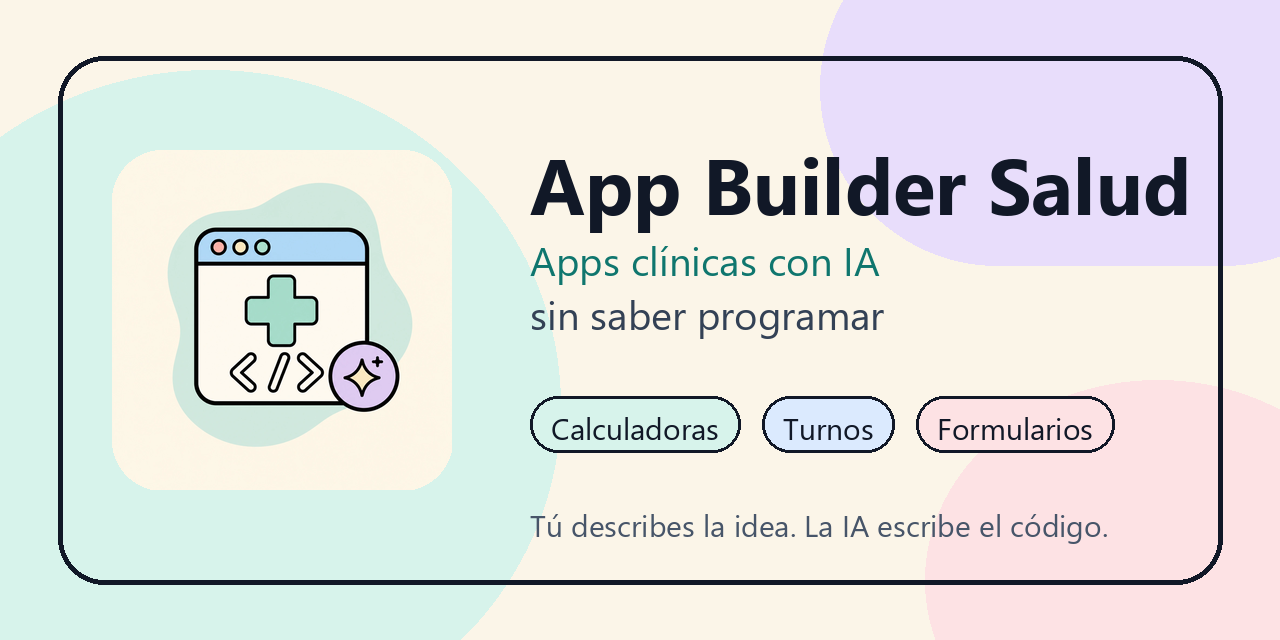
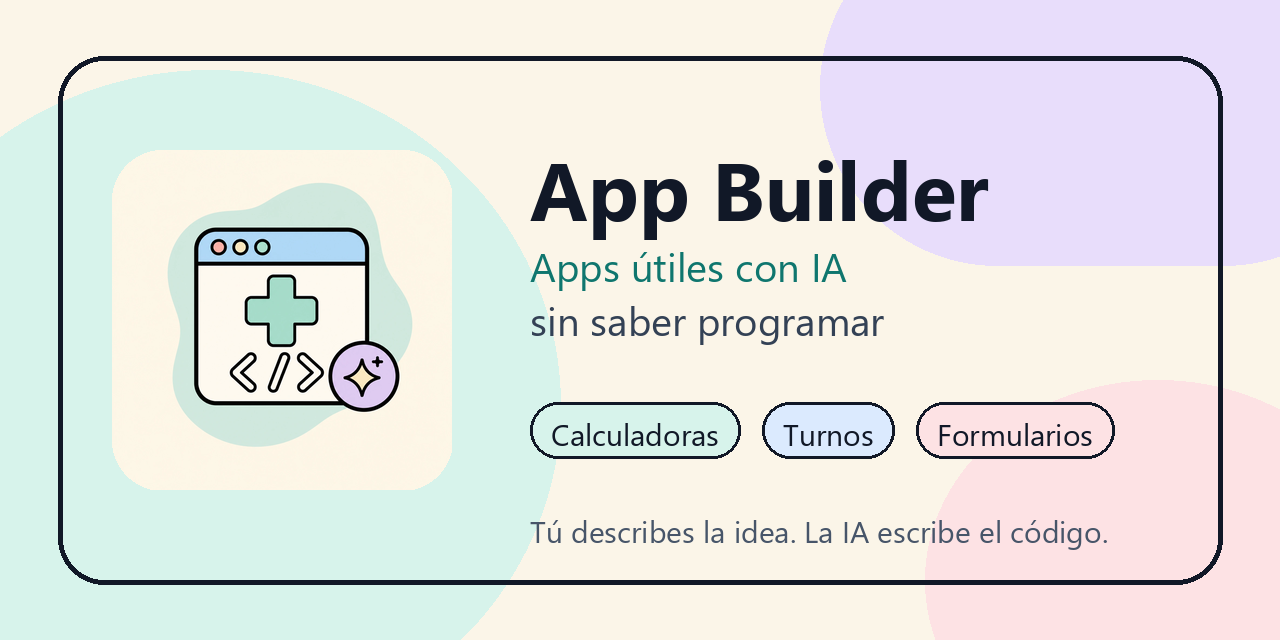
docs: generalize app builder branding

diff --git a/README.md b/README.md
@@ -1,5 +1,5 @@
 <p align="center">
-  <img src="assets/logo.webp" alt="App Builder Salud" width="360">
+  <img src="assets/logo.webp" alt="App Builder" width="360">
 </p>
 
 # 🏥 Crea Aplicaciones Personalizadas (Sin saber programar)
